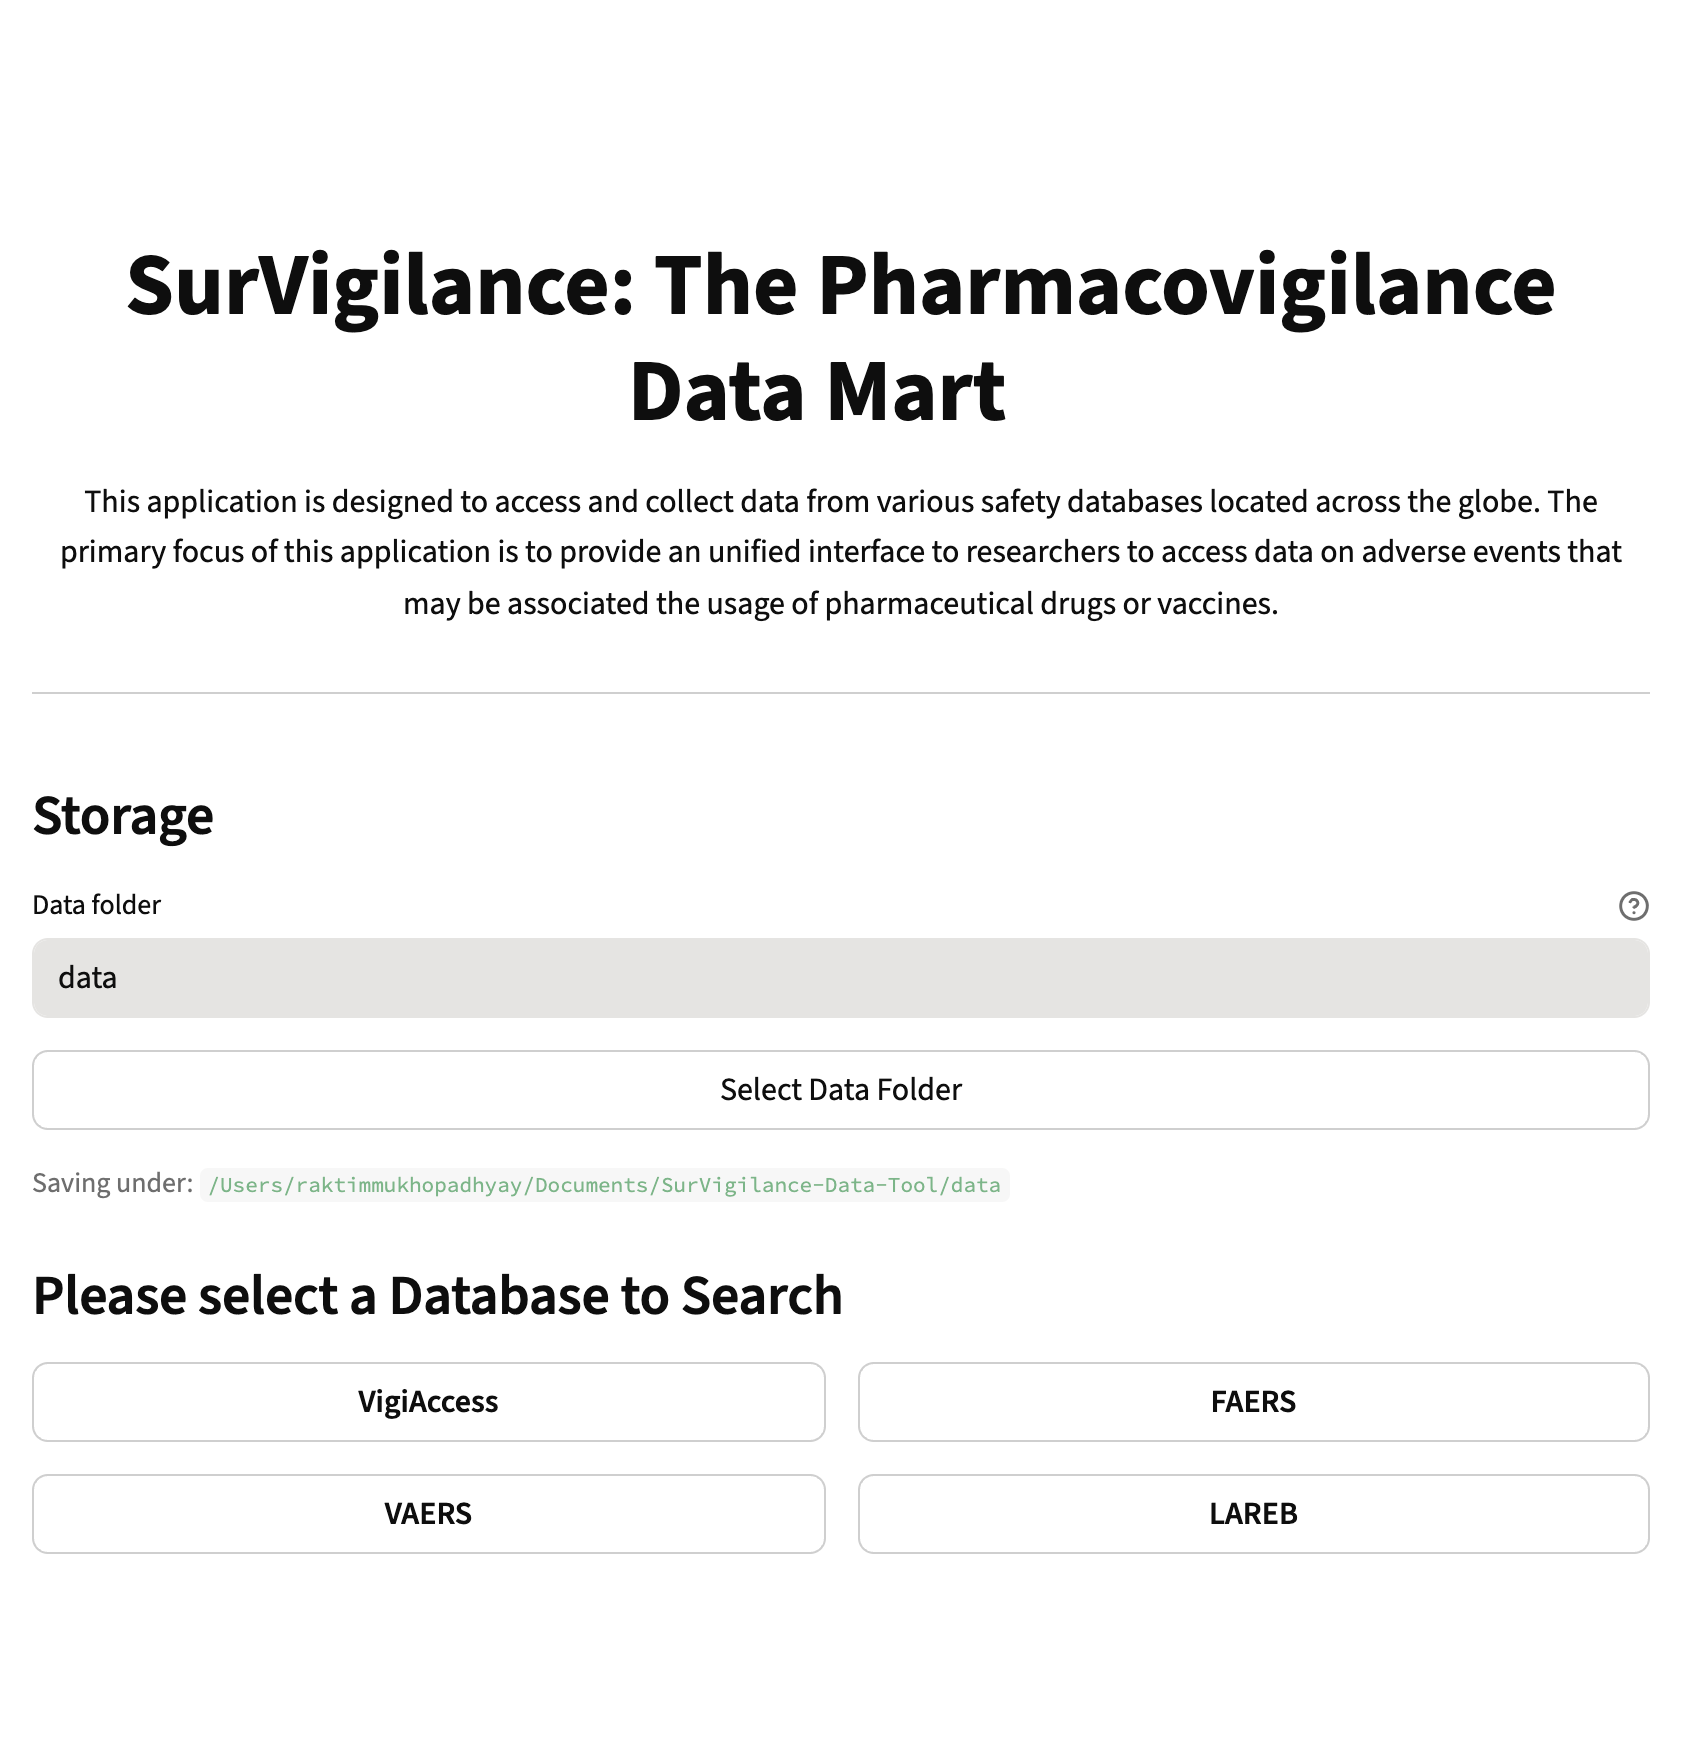
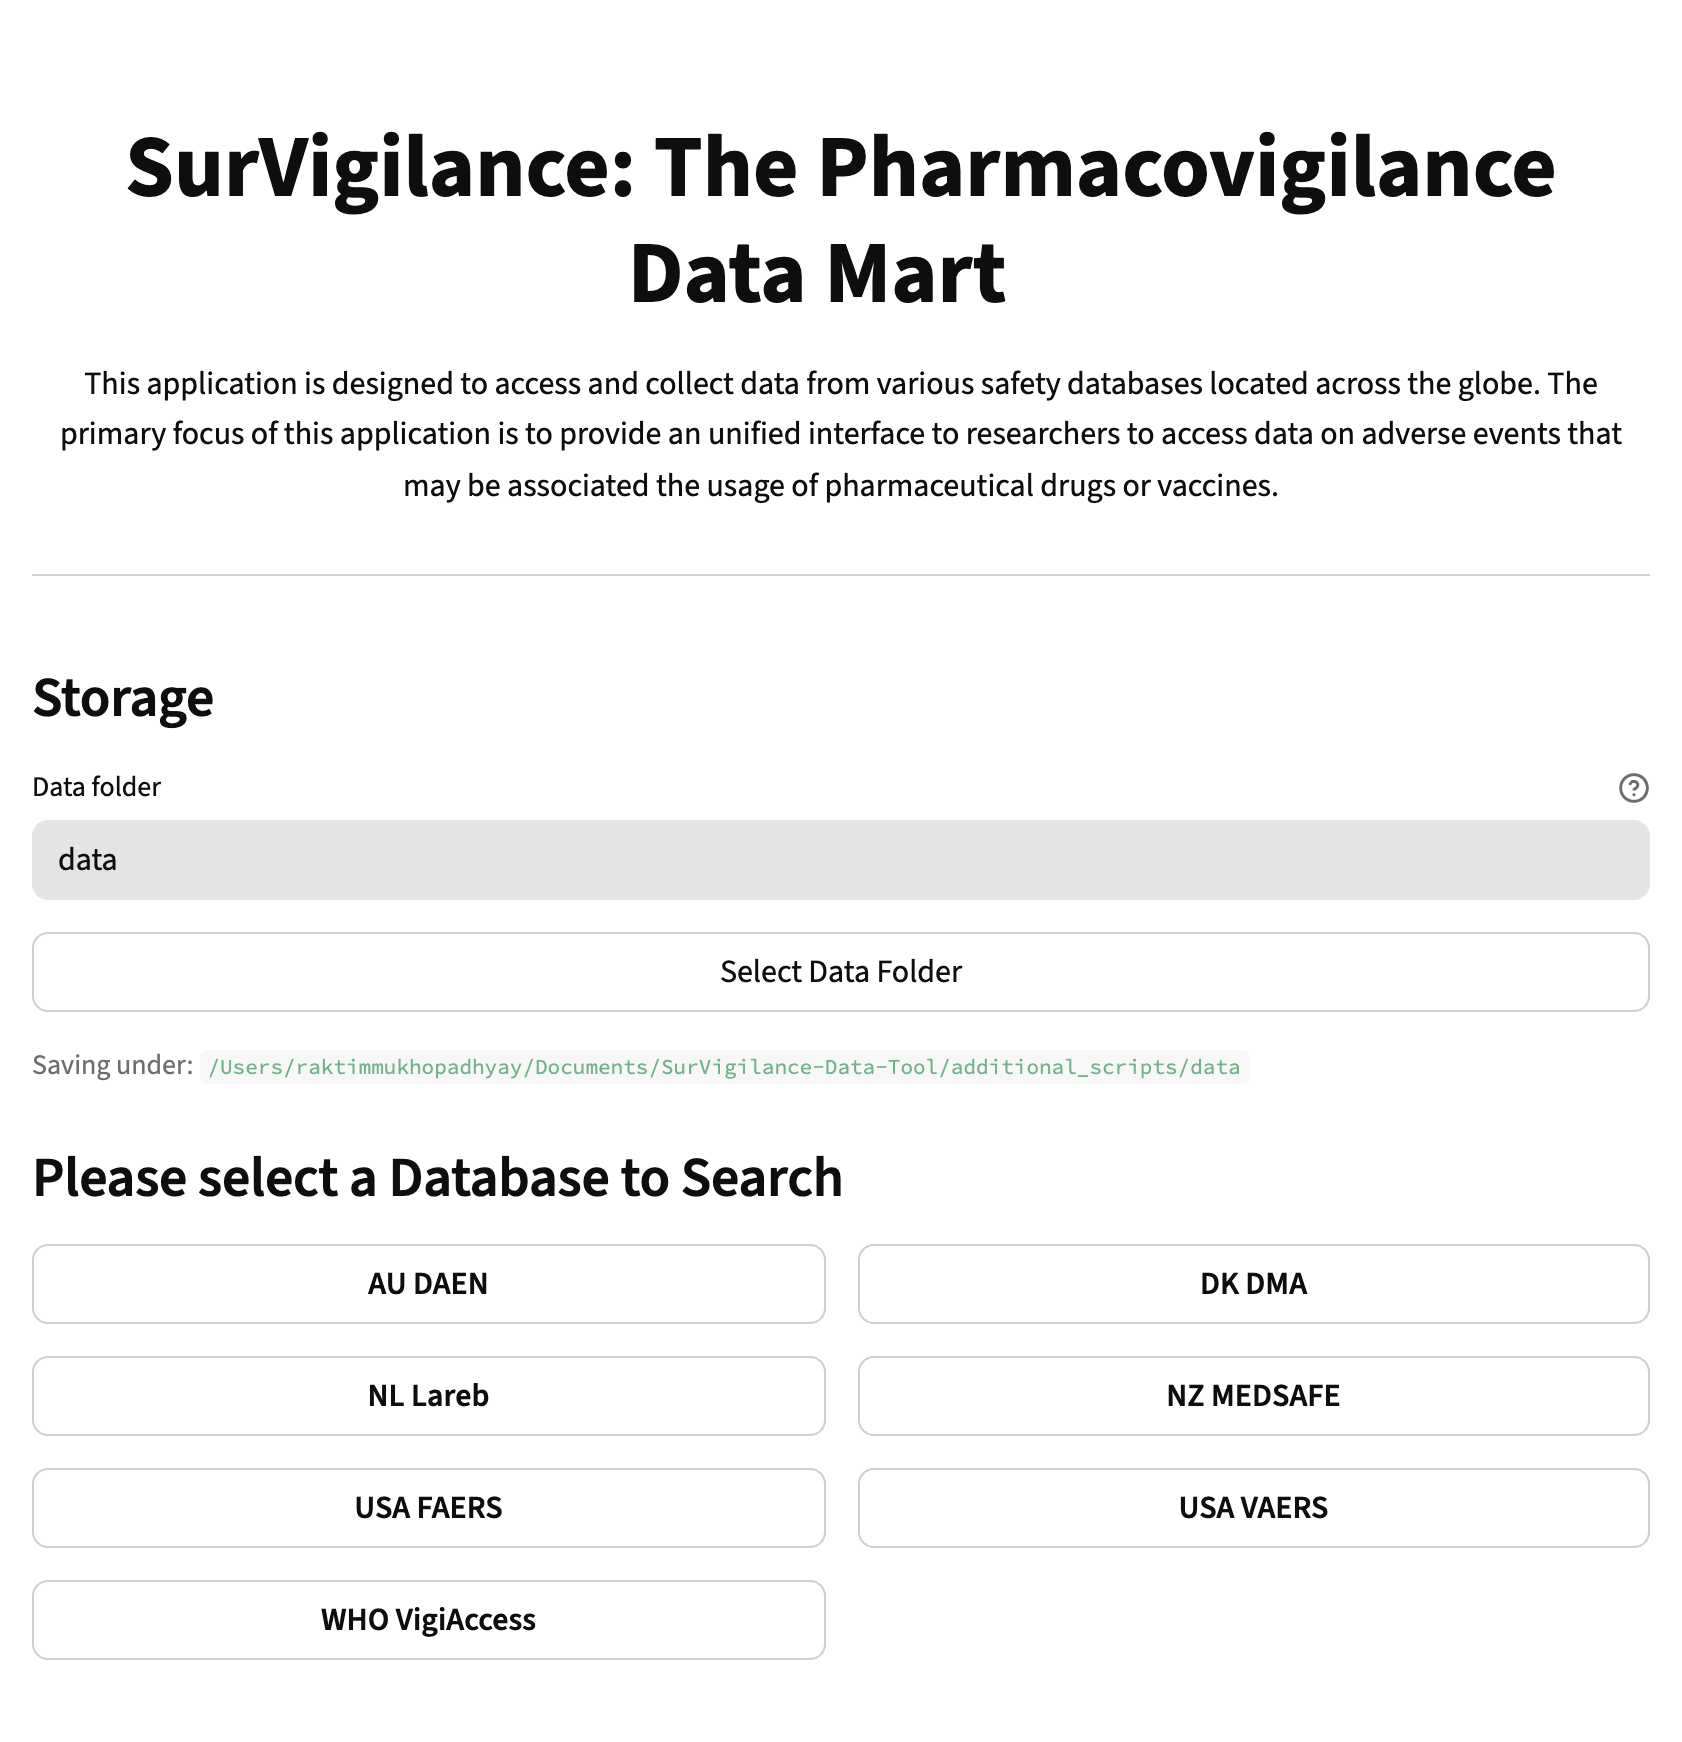
Add user guides and images for DAEN, DMA, Medsafe
Added new Jupyter notebooks for DAEN, DMA, and Medsafe GUI usage instructions, along with corresponding images for documentation. Updated README and UI pages to clarify supported databases and provide direct links to external resources. Improved scrapers for robustness and updated .gitignore for new directories. Updated documentation index to include new guides.

diff --git a/SurVigilance/ui/scrapers/scrape_nzsmars.py b/SurVigilance/ui/scrapers/scrape_nzsmars.py
@@ -85,7 +85,7 @@ def scrape_medsafe_sb(
             try:
                 if sb.cdp.is_element_present('//*[@id="Accept"]'):
                     sb.cdp.click('//*[@id="Accept"]')
-                    sb.sleep(0.5)
+                    sb.sleep(2)
             except Exception as e:  # pragma: no cover
                 _emit("log", message=f"Cookie/terms click skipped or failed: {e}")
 
@@ -96,17 +96,18 @@ def scrape_medsafe_sb(
                     sb.cdp.select_if_unselected('//*[@id="MainContent_MedicineType_0"]')
                 else:
                     sb.cdp.select_if_unselected('//*[@id="MainContent_MedicineType_1"]')
-                sb.sleep(0.4)
+                sb.sleep(5)
             except Exception as e:  # pragma: no cover
                 _emit("error", message=f"Failed setting medicine type: {e}")
                 raise  # pragma: no cover
 
             # Search text
             try:
-                sb.cdp.type('//*[@id="MainContent_TextToFind"]', str(drug_vaccine))
-                sb.sleep(0.4)
-                sb.cdp.click('//*[@id="MainContent_ButtonFind"]')
-                sb.sleep(0.6)
+                if sb.cdp.is_element_visible('//*[@id="MainContent_TextToFind"]'):
+                    sb.cdp.type('//*[@id="MainContent_TextToFind"]', str(drug_vaccine))
+                    sb.sleep(0.4)
+                    sb.cdp.click('//*[@id="MainContent_ButtonFind"]')
+                    sb.sleep(0.6)
             except Exception as e:  # pragma: no cover
                 _emit("error", message=f"Failed typing/searching for term: {e}")
                 raise  # pragma: no cover

diff --git a/SurVigilance/ui/scrapers/scrape_dma.py b/SurVigilance/ui/scrapers/scrape_dma.py
@@ -159,9 +159,7 @@ def scrape_dma_sb(
             if sb.is_element_present(outer_iframe):
                 with sb.frame_switch(outer_iframe):
                     try:
-                        if sb.is_element_present("#button#soc_expand_all_button"):
-                            sb.scroll_to("button#soc_expand_all_button")
-                            sb.click_if_visible("button#soc_expand_all_button")
+                        sb.click_if_visible("button#soc_expand_all_button")
                     except Exception as e:  # pragma: no cover
                         _emit("log", message=f"Expand-all click issue: {e}")
                     step()

diff --git a/SurVigilance/ui/pages/search_page_dma.py b/SurVigilance/ui/pages/search_page_dma.py
@@ -43,7 +43,7 @@ st.markdown(f"<h1 style='text-align: center;'>{heading}</h1>", unsafe_allow_html
 st.info(
     f"""
     How the DK DMA data collection works:
-    - Opens the Danish Medicines Agency database and searches for provided the medicine or vaccine.
+    - Opens the Danish Medicines Agency database (https://laegemiddelstyrelsen.dk/sideeffects/side-effects-of-medicines/interactive-adverse-drug-reaction-overviews/.aspx) and searches for provided the medicine or vaccine.
     - Extracts the MedDRA Preferred Terms (PTs) and counts associated with the drug/vaccine.
     - Saves a CSV to `{dma_dir_display}/<medicine>_dma_adrs.csv`.
     """

diff --git a/SurVigilance/ui/pages/search_page_nzsmars.py b/SurVigilance/ui/pages/search_page_nzsmars.py
@@ -44,7 +44,7 @@ st.markdown(f"<h1 style='text-align: center;'>{heading}</h1>", unsafe_allow_html
 st.info(
     f"""
     How the NZ MEDSAFE data collection works:
-    - Opens the NZ Medsafe database and searches for provided medicine/vaccine by selecting appropriate radio button.
+    - Opens the NZ Medsafe database (https://www.medsafe.govt.nz/SMARS/Default) and searches for provided medicine/vaccine by selecting appropriate radio button.
     - Parses the Preferred Terms (PTs) and counts for the given drug/vaccine.
     - Saves a CSV to `{nz_dir_display}/<term>_nzsmars_adrs.csv`.
     """

diff --git a/SurVigilance/ui/pages/search_page_daen.py b/SurVigilance/ui/pages/search_page_daen.py
@@ -43,7 +43,7 @@ st.markdown(f"<h1 style='text-align: center;'>{heading}</h1>", unsafe_allow_html
 st.info(
     f"""
     How the AU DAEN data collection works:
-    - Opens the TGA DAEN medicines search and searches for the provided drug/vaccine.
+    - Opens the DAEN medicines (https://daen.tga.gov.au/medicines-search/) search and searches for the provided drug/vaccine.
     - Initiates an export of the data with MedDRA Preferred Terms (PTs) and associated counts.
     - Saves the downloaded file to `{daen_dir_display}/<medicine>_daen_export.ext`.
     """

diff --git a/README.rst b/README.rst
@@ -35,7 +35,7 @@ Currently, SurVigilance supports the following databases:
 Installation Overview
 ----------------------
 
-``pip install SurVigilance``
+SurVigilance is available on PyPI and can be installed using ``pip install SurVigilance``
 
 **Google Chrome** is required to run **SurVigilance**. You can download it here:
 `https://www.google.com/chrome/ <https://www.google.com/chrome/>`_
@@ -130,9 +130,10 @@ Disclaimer
    access.
 -  All database names and trademarks are the property of their
    respective owners.
--  We gratefully acknowledge the organizations that maintain the FAERS,
-   VAERS, VigiAccess, and Lareb databases, whose efforts make these
-   datasets publicly accessible.
+-  We gratefully acknowledge the organizations that maintain the **FAERS**, 
+   **VAERS**, **VigiAccess**, **Lareb**, **DAEN**, **DMA**, and **Medsafe** 
+   databases, whose efforts make these datasets publicly accessible.
+
 
 .. |License: GPL v3| image:: https://img.shields.io/badge/License-GPLv3-blue.svg
    :target: https://github.com/rmj3197/SurVigilance/blob/master/LICENSE

diff --git a/docs/source/user_guide/index.rst b/docs/source/user_guide/index.rst
@@ -15,8 +15,12 @@ Examples to use the Graphical User Interface
 .. toctree::
    :maxdepth: 4
    
+   DAEN_GUI
+   DMA_GUI
    FAERS_GUI
-   VAERS_GUI
    Lareb_GUI
+   Medsafe_GUI
+   VAERS_GUI
    VigiAccess_GUI
+
 
